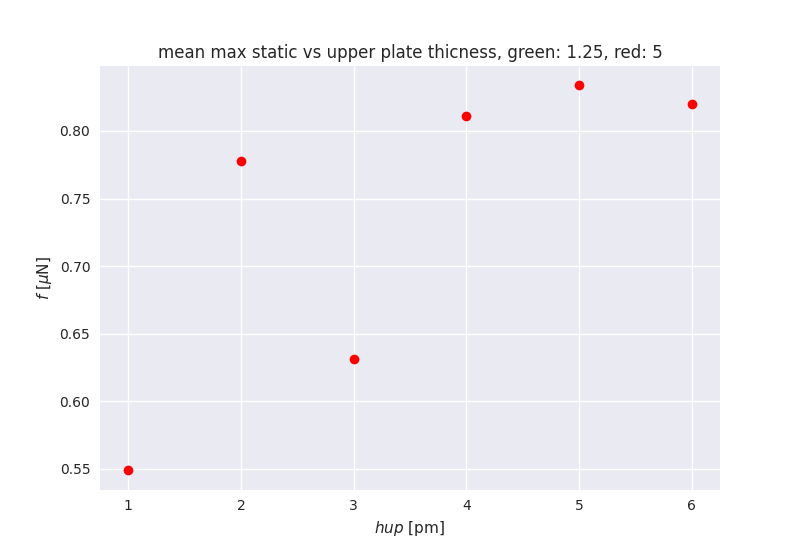
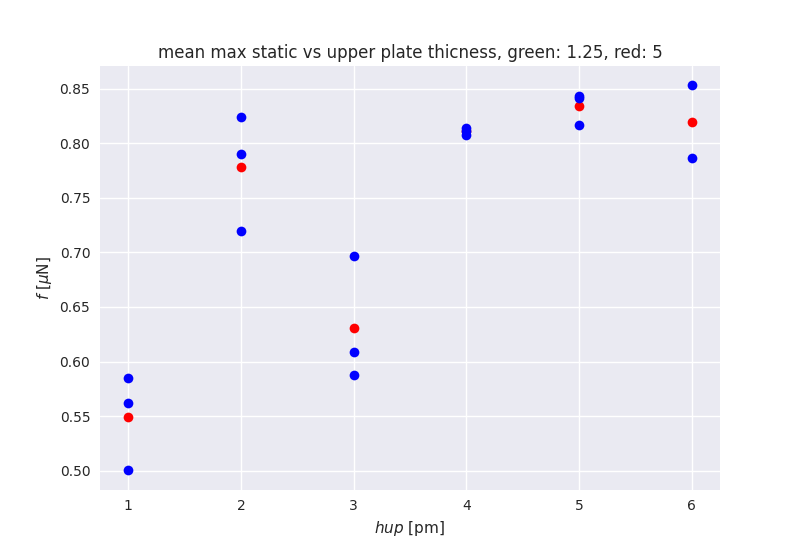
added all plots, not just average

diff --git a/python/plot/plot_max_static.py b/python/plot/plot_max_static.py
@@ -75,8 +75,8 @@ def plot_max_static_vs_thiccness():
                                                   template_lc, template_ms, seed) 
             all_mean_static[i] = mean_static
             plt.plot(uc, mean_static, colours[vel])
-            #for ms in ms_all:
-            #    plt.plot(hup[i], ms, 'ob')
+            for ms in ms_all:
+                plt.plot(uc, ms, 'ob')
     
 
     plt.xlabel(r"$hup$ [pm]")
